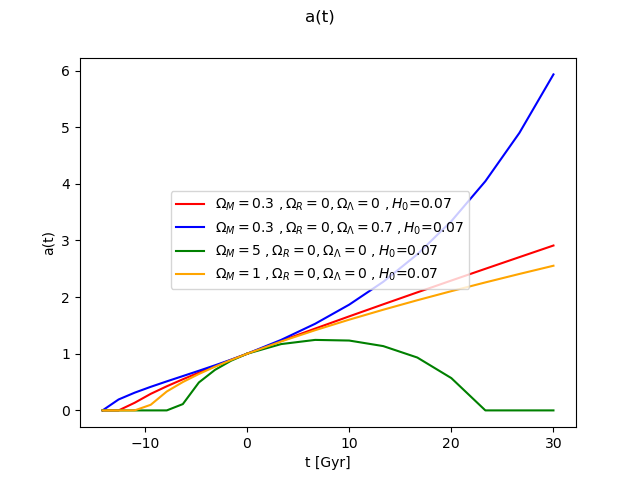
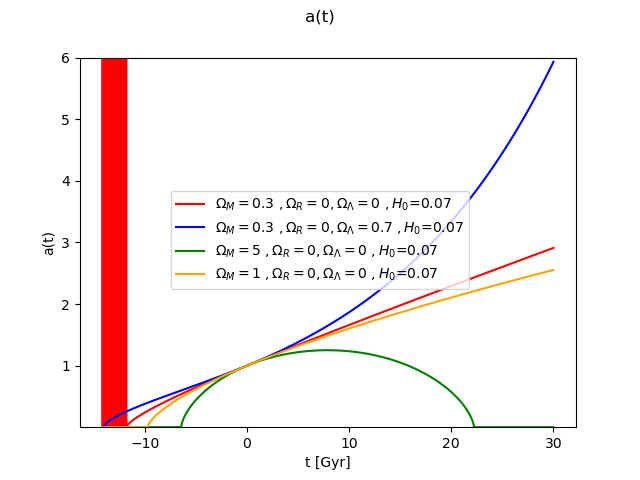
added plot for dH

diff --git a/main.py b/main.py
@@ -17,7 +17,7 @@ def g(y, t, H0, Om_M, Om_R, Om_Lambda):
 # def f(x,t,H0,Om_M,Om_R,Om_Lambda):
 #     return np.array([x[1],-(x[0]/2)*H0*H0*(Om_M/(np.power(x[0],3))+2*Om_R/(np.power(x[0],4))-2*Om_Lambda)])
 
-def calculate_a_H(y0,t1,t2,H0,Om_M,Om_R,Om_Lambda):
+def calculate_a(y0,t1,t2,H0,Om_M,Om_R,Om_Lambda):
 
     sol1 = integrate.odeint(g, y0, t1, args=(H0, Om_M, Om_R, Om_Lambda))
     sol2 = integrate.odeint(g, y0, t2, args=(H0, Om_M, Om_R, Om_Lambda))
@@ -37,25 +37,29 @@ def calculate_a_H(y0,t1,t2,H0,Om_M,Om_R,Om_Lambda):
     return sol1,sol2
 
 def a_and_H(y0,t1,t2,H0List,Om_MList,Om_RList,Om_LambdaList):
+    c=const.c
     sol1List=[]
     sol2List=[]
     colors=["red","blue","green","orange"]
     for i in range(len(H0List)):
-        sol1,sol2=calculate_a_H(y0,t1,t2,H0List[i],Om_MList[i],Om_RList[i],Om_LambdaList[i])
+        sol1,sol2=calculate_a(y0,t1,t2,H0List[i],Om_MList[i],Om_RList[i],Om_LambdaList[i])
         sol1List.append(sol1)
         sol2List.append(sol2)
 
     figa, axa=plt.subplots(1,1)
     figH, axH=plt.subplots(1,1)
+    figdH, axdH=plt.subplots(1,1)
 
     for i in range(len(sol1List)):
         a1=sol1List[i][:,0]
         a2=sol2List[i][:,0]
         adot1=sol1List[i][:,1]
         adot2=sol2List[i][:,1]
-        H1=adot1/a1
-        H2=adot2/a2
-        #print(H1)
+        H1=(adot1/a1)*(3.086e22/(1e3*3600*24*365*10**9))
+        H2=(adot2/a2)*(3.086e22/(1e3*3600*24*365*10**9))
+        dH1=c/H1
+        dH2=c/H2
+
         axa.plot(t1,a1, color=colors[i],label="$\Omega_M=$"+str(Om_MList[i])+" $, \Omega_R=$"+str(Om_RList[i])+
         "$, \Omega_\Lambda=$"+str(Om_LambdaList[i])+" $, H_0$="+str(round(H0List[i],2)))
         axa.plot(t2,a2,color=colors[i])
@@ -64,9 +68,14 @@ def a_and_H(y0,t1,t2,H0List,Om_MList,Om_RList,Om_LambdaList):
         "$, \Omega_\Lambda=$"+str(Om_LambdaList[i])+" $, H_0$="+str(round(H0List[i],2)))
         axH.plot(t2,H2,color=colors[i])
 
+        axdH.plot(t1,dH1, color=colors[i],label="$\Omega_M=$"+str(Om_MList[i])+" $, \Omega_R=$"+str(Om_RList[i])+
+        "$, \Omega_\Lambda=$"+str(Om_LambdaList[i])+" $, H_0$="+str(round(H0List[i],2)))
+        axdH.plot(t2,dH2,color=colors[i])
+
     figa.suptitle("a(t)")
     axa.set_xlabel("t [Gyr]")
     axa.set_ylabel("a(t)")
+    axa.set_ylim(0.00001,6)
     figa.legend(loc="center")
     figa.savefig("a_fig")
     
@@ -74,8 +83,18 @@ def a_and_H(y0,t1,t2,H0List,Om_MList,Om_RList,Om_LambdaList):
     figH.suptitle("H(t)")
     axH.set_xlabel("t [Gyr]")
     axH.set_ylabel("H(t)")
+    axH.set_ylim(0,300)
     figH.legend(loc="center")
     figH.savefig("H_fig")
+
+    figdH.suptitle("$d_H(t)$")
+    axdH.set_xlabel("t [Gyr]")
+    axdH.set_ylabel("$d_H(t)$")
+    axdH.set_yscale("log")
+    #axdH.set_ylim(0,300)
+    figdH.legend(loc="upper right")
+    figdH.savefig("dH_fig")
+
     plt.show()
 
 
@@ -227,7 +246,8 @@ def distances(z,Om_R, Om_M, Om_Lambda, H0,k):
 def main():
     year=365*24*60*60
     #Take as input?
-    H0=1000/3.086e22*(3600*24*365*1e09)*67
+    H0=1000/3.086e22*(3600*24*365*10**9)*67
+    
     #H0=67
     H0s=[H0,H0,H0,H0]
     Om_Ms=[0.3,0.3,5,1]
@@ -241,7 +261,7 @@ def main():
     z_max=15
     z=np.linspace(z_min,z_max,Nz)
 
-    Nt=10
+    Nt=1000
     
     t_min=-14.15
     t_max=30
@@ -281,3 +301,5 @@ main()
 a=np.array([1,2])
 b=np.array([3,4])
 print(np.append(a,b))
+
+print(1000/3.086e22*(3600*24*365*10**(9))*67)

diff --git a/test.py b/test.py
@@ -21,9 +21,12 @@ t2 = np.linspace(0, -14.15, 1000)
 sol = odeint(pend, y0, t, args=(H0, Om_M, Om_R, Om_Lambda))
 sol2 = odeint(pend, y0, t2, args=(H0, Om_M, Om_R, Om_Lambda))
 
-plt.plot(t, sol[:, 0], 'b', t2, sol2[:,0], 'r', label='a(t)')
+#plt.plot(t, sol[:, 0], 'b', t2, sol2[:,0], 'r', label='a(t)')
+plt.plot(t, sol[:, 1]/sol[:,0], 'b')
+plt.plot(t2,sol2[:,1]/sol2[:,0])
 # plt.plot(t, sol[:, 1], 'g', label='omega(t)')
 plt.legend(loc='best')
 plt.xlabel('t')
+plt.ylim(0,30)
 plt.grid()
 plt.show()
